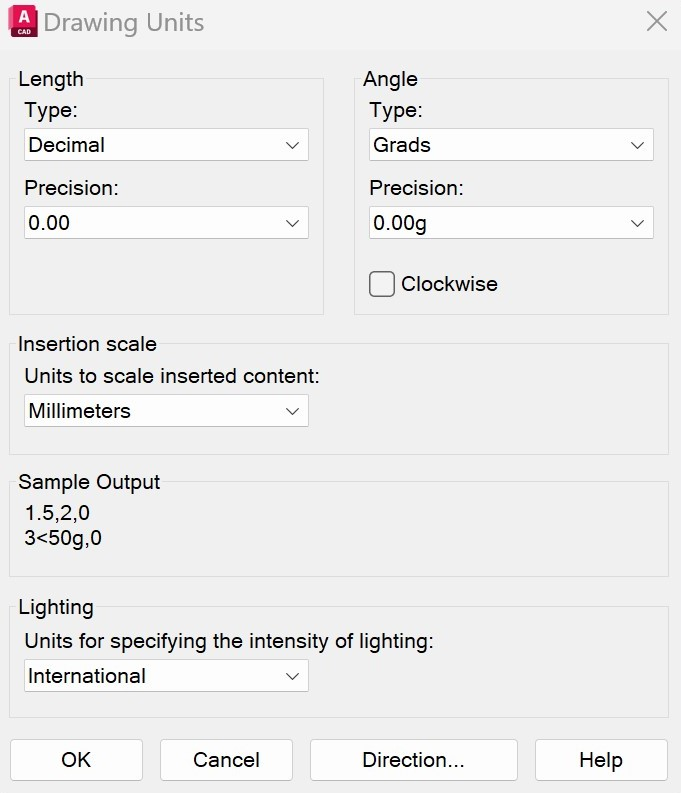
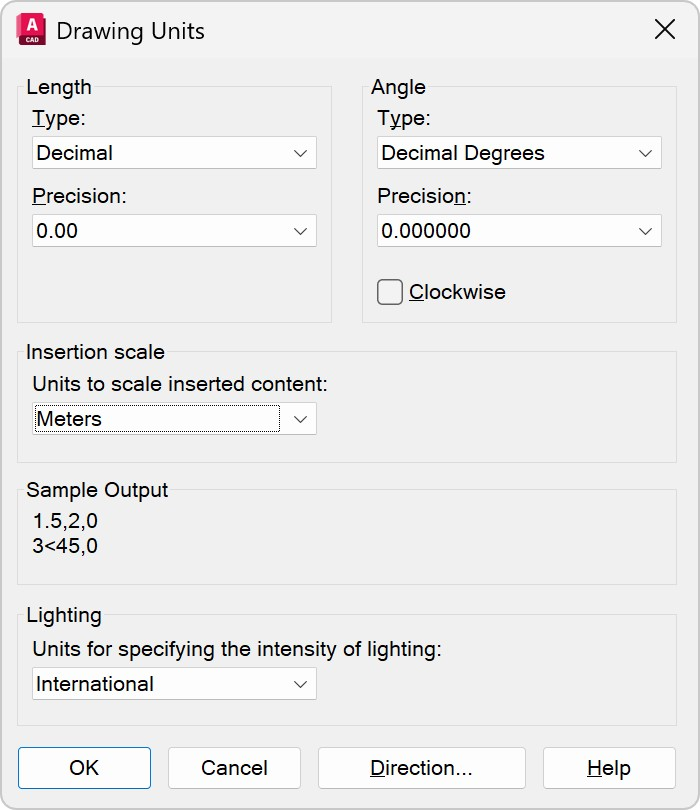
General update.

diff --git a/activity/M01A01/Readme.md b/activity/M01A01/Readme.md
@@ -166,9 +166,9 @@ En _Region_, de clic en el botón con _Configuración adicional... (Aditional se
 
 <div align="center"><img src="graph/AutoCAD_Drawing1.jpg" alt="R.DAPC" width="100%" border="0" /></div>
 
-5. Desde el botón _AutoCAD / Drawing Utilities / Units_, defina las unidades de longitud en _Decimal_, ángulos en _Grados decimales_, precisión usando dos decimales y unidades de dibujo o de escala para inserción de elementos externos (tales como bloques) en el espacio de dibujo en milímetros. Esta misma acción puede ser realizada con el comando **UNITS** o con **DWGUNITS**, adicionalmente permite convertir un dibujo trazado p. ej., en metros, a milímetros.   
+5. Desde el botón _AutoCAD / Drawing Utilities / Units_, defina las unidades de longitud en _Decimal_, ángulos en _Grados decimales_, precisión usando dos decimales y unidades de dibujo o de escala para inserción de elementos externos (tales como bloques) en el espacio de dibujo en metros. Esta misma acción puede ser realizada con el comando **UNITS** o con **DWGUNITS**, adicionalmente permite convertir un dibujo trazado p. ej., en metros, a milímetros (Tenga en cuenta que AutoCAD no realiza conversiones entre sistemas de unidades, p. ej., una línea de longitud 2 pulgadas no será convertida a su equivalente en milímetros al cambiar las unidades de dibujo).   
 
-> Diferencia entre Grados Decimales y Grados en AutoCAD: son dos diferentes unidades para representación de ángulos, los _Grados Decimales_ son la forma más común de representar ángulos usando fracciones decimales (p. ej., 27.32°), mientras que los _Grados_ dividen la circunferencia en 400 partes iguales. 
+> Diferencia entre Grados Decimales y Grados centesimales en AutoCAD: son dos diferentes unidades para representación de ángulos, los _Grados Decimales_ ° son la forma más común de representar ángulos usando fracciones decimales (p. ej., 27.32° entre 0 y 360 grados), mientras que los _Grados_ (centesimales) dividen la circunferencia en 400 partes iguales (cuyo equivalente en grados decimales es 360/400 o 0.9°). 
 > 
 > Tenga en cuenta que en el espacio de impresión o _Layout_ siempre dibujaremos en milímetros.
 > 
@@ -187,7 +187,7 @@ Para el dibujo de elementos, por defecto el mouse o apuntador realiza las siguie
 
 <div align="center"><img src="graph/M01A01_Mouse.jpg" alt="R.DAPC" width="40%" border="0" /><sub><br>Adaptado de: <a href="https://www.vecteezy.com/vector-art/24103530-set-of-computer-mouse-outline-drawing-vector-computer-mouse-in-a-sketch-style-computer-mouse-training-template-outline-vector-">www.vecteezy.com</a></sub><br><br></div>
 
-:blue_heart: Al ampliar o reducir el zoom con la rueda del mouse, la ubicación del cursor es importante. Puede considerar el cursor como una lupa., p. ej. si coloca el cursor en el área superior derecha del área de dibujo, se amplía esa área sin cambiar su posición.
+:blue_heart: Al ampliar o reducir el Zoom con la rueda del mouse, la ubicación del cursor es importante. Puede considerar el cursor como una lupa., p. ej. si coloca el cursor en el área superior derecha del área de dibujo, se amplía esa área sin cambiar su posición.
 
 1. Seleccione la herramienta _Line_ y trace una línea de izquierda a derecha en cualquier lugar del espacio de dibujo. Podrá observar que luego de establecer el nodo final, el puntero sigue solicitando la inserción de un nuevo nodo, para completar la línea oprima la tecla <kbd>esc</kbd>, de <kbd>enter</kbd> o utilice el clic derecho del Mouse y seleccione la opción _Enter_.
 
@@ -346,7 +346,7 @@ LINE
 * Triángulo equilátero de 50 metros de lado con origen en la coordenada absoluta indicada.
 * Triángulo rectángulo con área de 200 m² y con origen en la coordenada absoluta indicada.
 
-> Tenga en cuenta que la sumatoria interna de ángulos de un triángulo es de 180°.
+> Tenga en cuenta que la sumatoria interna de ángulos de un polígono es $(n-2) * 180$, con lo que para un tríangulo con n=3 la sumatoria interna es (3-2)*180 = 180°. 
 > 
 > Recuerde que si sus unidades angulares han sido establecidas en grados, deberá incluir la letra **d** (degrees) luego del valor del ángulo requerido. Coordenadas en grados decimales no requieren de la letra **d**
 
